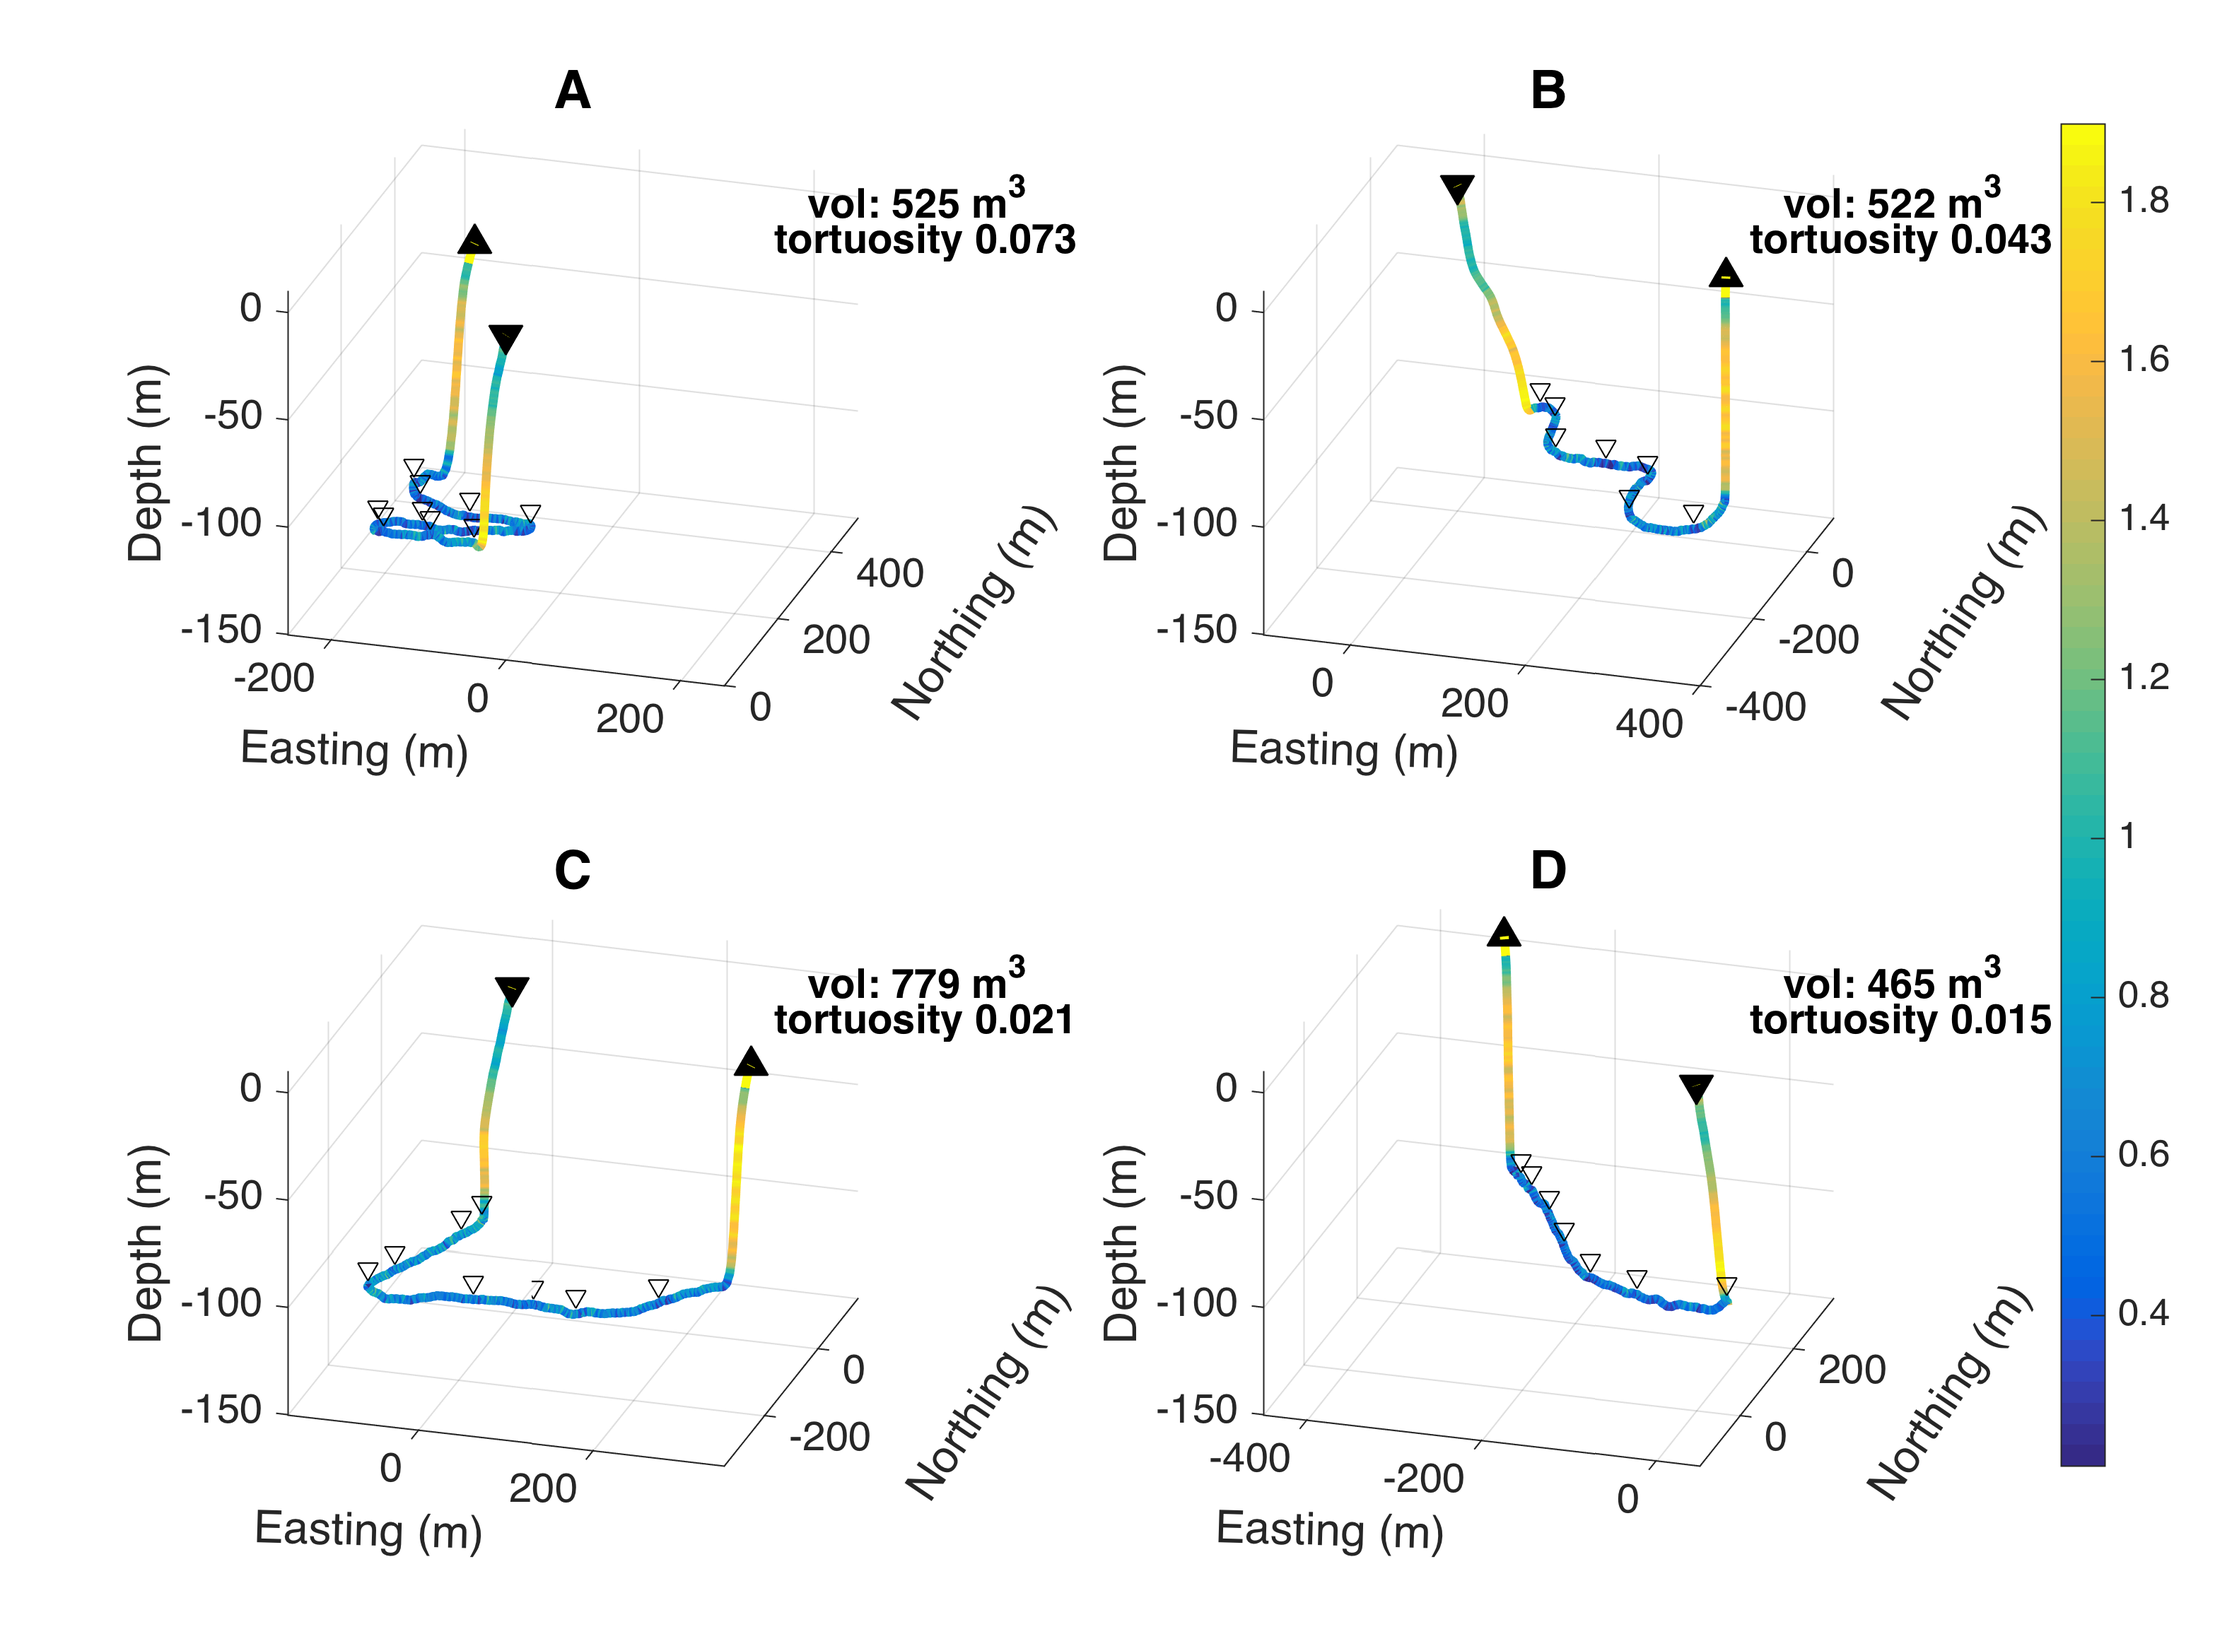
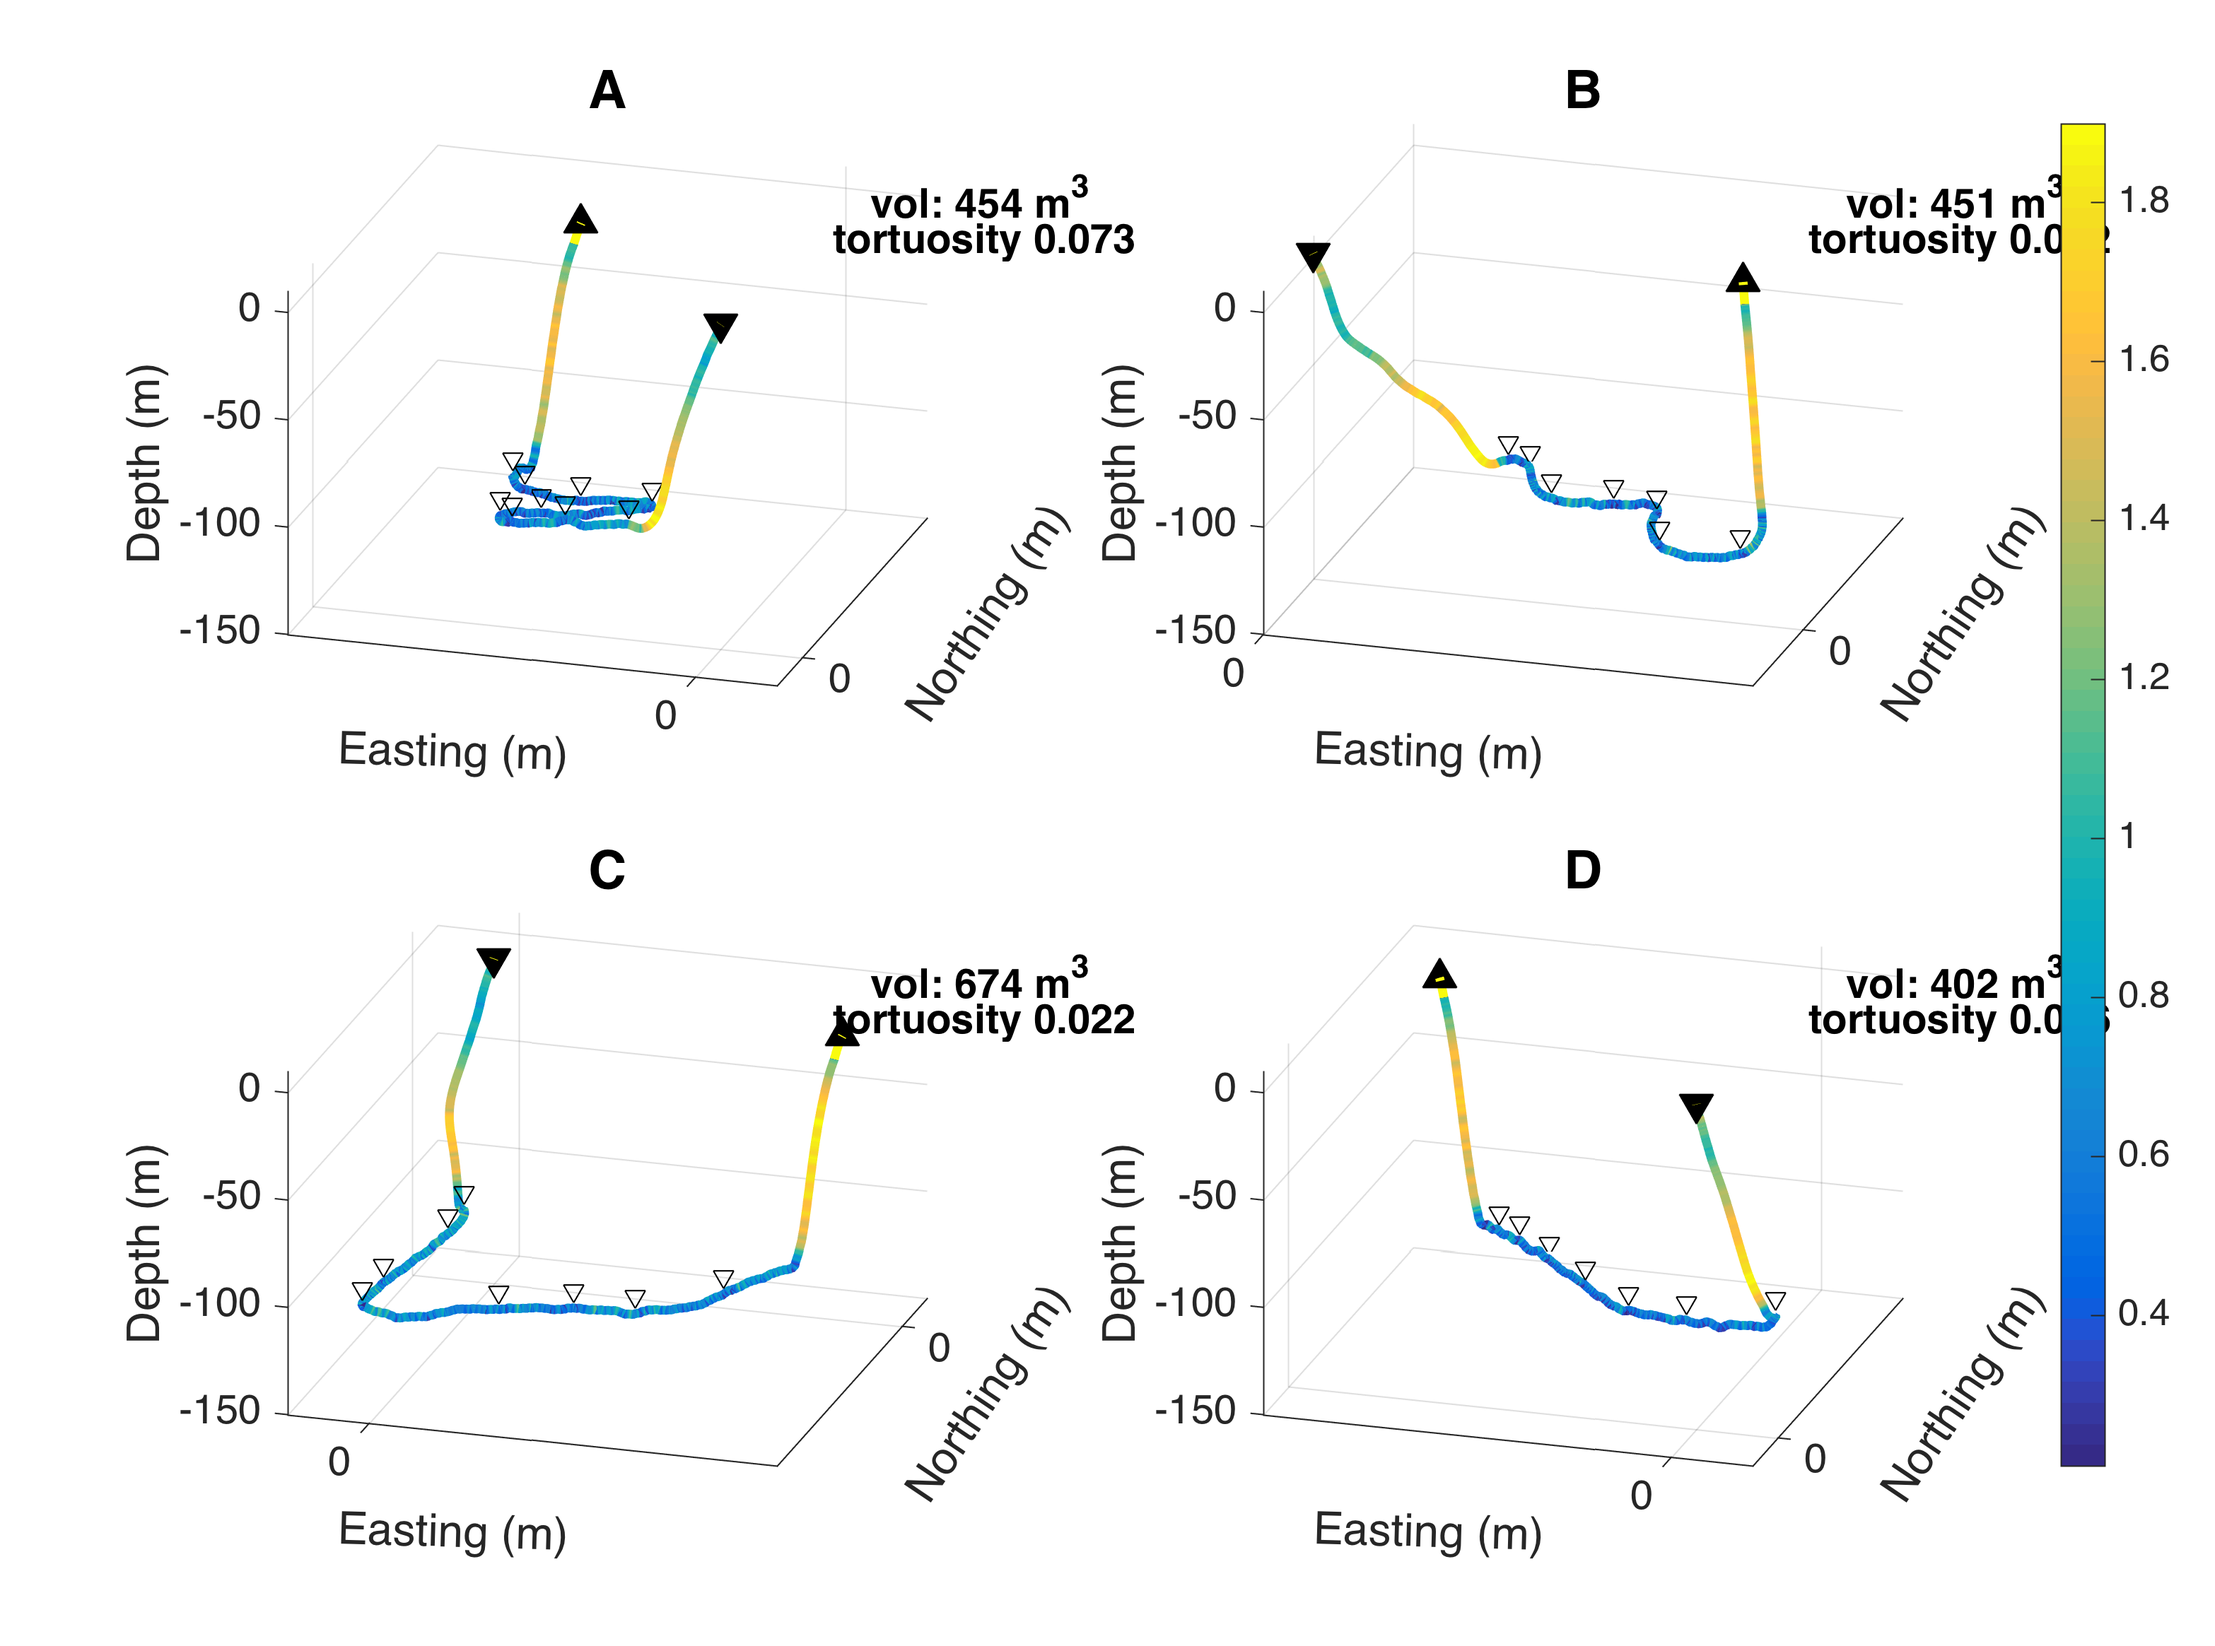
change pseudotracks to include estimated speed

diff --git a/NARW_divepauseplot.m b/NARW_divepauseplot.m
@@ -40,37 +40,40 @@ for j = [9 10 11 12]
     plot3(flowtrack(end,1)-startpt(1),flowtrack(end,2)-startpt(2),-p(round(dcue(end)*fs)),'k^','markerfacecolor','k','MarkerSize',10)
     
     % plot pitch
-    [v,ph,mx,fr] = findflukes(Aw,Mw,fs,0.3,0.02,[2 8]); % calculate pitch deviation
-    plot3(flowtrack(:,1)-startpt(1),flowtrack(:,2)-startpt(2),ph(round(dcue*fs))*60-p(round(dcue*fs)),'k')
+%    [v,ph,mx,fr] = findflukes(Aw,Mw,fs,0.3,0.02,[2 8]); % calculate pitch deviation
+%    plot3(flowtrack(:,1)-startpt(1),flowtrack(:,2)-startpt(2),ph(round(dcue*fs))*60-p(round(dcue*fs)),'k')
     
     if isempty(dive(j).stops) == 0
         for k = 1:length(dive(j).stops)
-            plot3(flowtrack(round(dive(j).stops(k,1))-dcue(1),1)-startpt(1),flowtrack(round(dive(j).stops(k,1))-dcue(1),2)-startpt(2),-p(round(dive(j).stops(k,1)*fs))+8,'kv')
+            plot3(flowtrack(round(dive(j).stops(k,1)-dcue(1)),1)-startpt(1),flowtrack(round(dive(j).stops(k,1)-dcue(1)),2)-startpt(2),-p(round(dive(j).stops(k,1)*fs))+8,'kv')
         end
     end
     view([17 27]), grid on, % pause
     xlabel('Easting (m)'), ylabel('Northing (m)'), zlabel('Depth (m)'), rotate_labels(gca)
     set(gca,'xtick',-400:200:400,'ytick',-400:200:400)
     
-    tort(:,j) = nanmean(tortuosity(flowtrack(dive(j).btm),:),fs,10,1);
+    tort(:,j) = nanmean(tortuosity(flowtrack(dive(j).btm,1:2),fs,10));
     % nanmean(tort)
 end
 
 adjustfigurefont('Helvetica',14)
-subplot(221), xlim([-250 250]), ylim([0 500]), zlim([-150 10]), title('A','FontSize',18,'FontWeight','bold')
+subplot(221), xlim([-50 10]), ylim([-10 50]), zlim([-150 10]), title('A','FontSize',18,'FontWeight','bold')
 axletter(gca,['vol: ' num2str(round(sum(dive(9).vperblock),0)) ' m^3'],14,0.9)
 axletter(gca,['tortuosity ' num2str(round(tort(1,9),3))],14,0.9,0.7)
 
-subplot(222), xlim([-100 400]), ylim([-400 100]), zlim([-150 10]), title('B','FontSize',18,'FontWeight','bold')
+subplot(222), xlim([0 60]), ylim([-20 40]), zlim([-150 10]), title('B','FontSize',18,'FontWeight','bold')
 axletter(gca,['vol: ' num2str(round(sum(dive(10).vperblock),0)) ' m^3'],14,0.9)
 axletter(gca,['tortuosity ' num2str(round(tort(1,10),3))],14,0.9,0.7)
 
-subplot(223), xlim([-150 350]), ylim([-350 150 ]), zlim([-150 10]), title('C','FontSize',18,'FontWeight','bold')
+subplot(223), xlim([-10 50]), ylim([-50 10]), zlim([-150 10]), title('C','FontSize',18,'FontWeight','bold')
 axletter(gca,['vol: ' num2str(round(sum(dive(11).vperblock),0)) ' m^3'],14,0.9)
 axletter(gca,['tortuosity ' num2str(round(tort(1,11),3))],14,0.9,0.7)
 
-subplot(224), xlim([-450 50]), ylim([-150 350]), zlim([-150 10]), title('D','FontSize',18,'FontWeight','bold')
+subplot(224), xlim([-50 10]), ylim([-10 50]), zlim([-150 10]), title('D','FontSize',18,'FontWeight','bold')
 axletter(gca,['vol: ' num2str(round(sum(dive(12).vperblock),0)) ' m^3'],14,0.9)
 axletter(gca,['tortuosity ' num2str(round(tort(1,12),3))],14,0.9,0.7)
-colorbar('position',[0.93 0.11 0.02 0.815])
-% print('NARW_ptrack4.png','-dpng','-r300')
+
+h = colorbar('position',[0.93 0.11 0.02 0.815])
+ylabel(h,'Speed (m/s)')
+
+print('NARW_ptrack4.png','-dpng','-r300')
